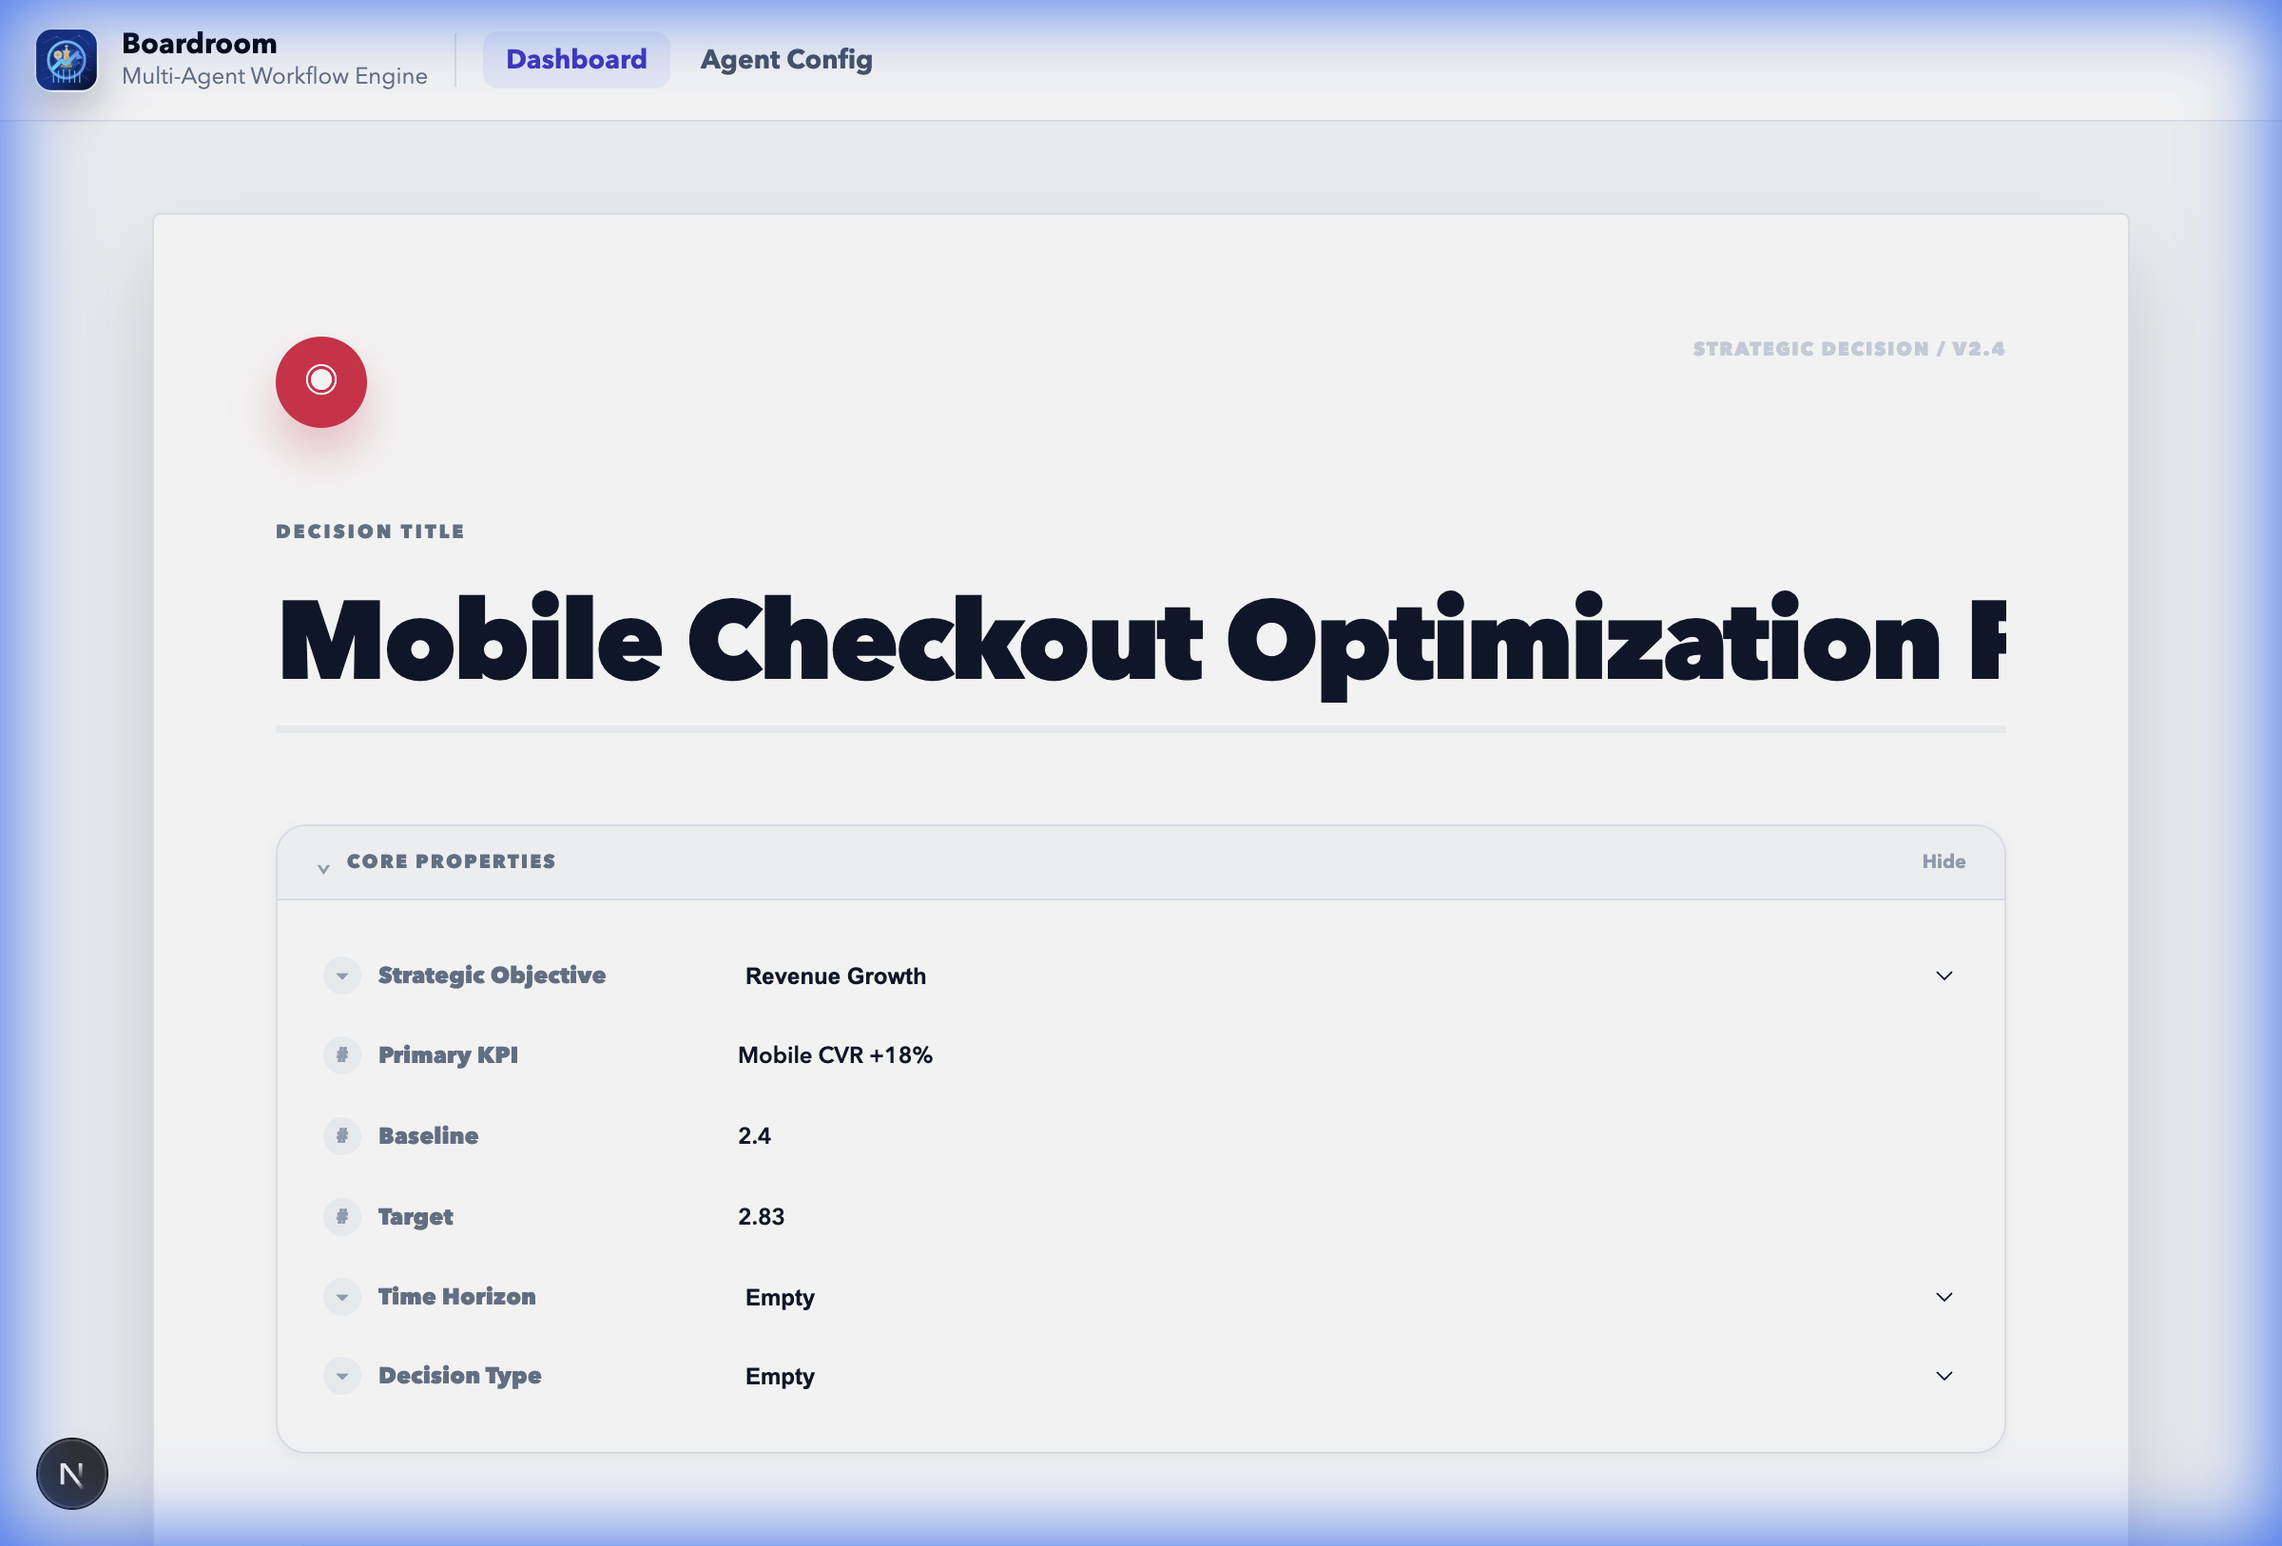
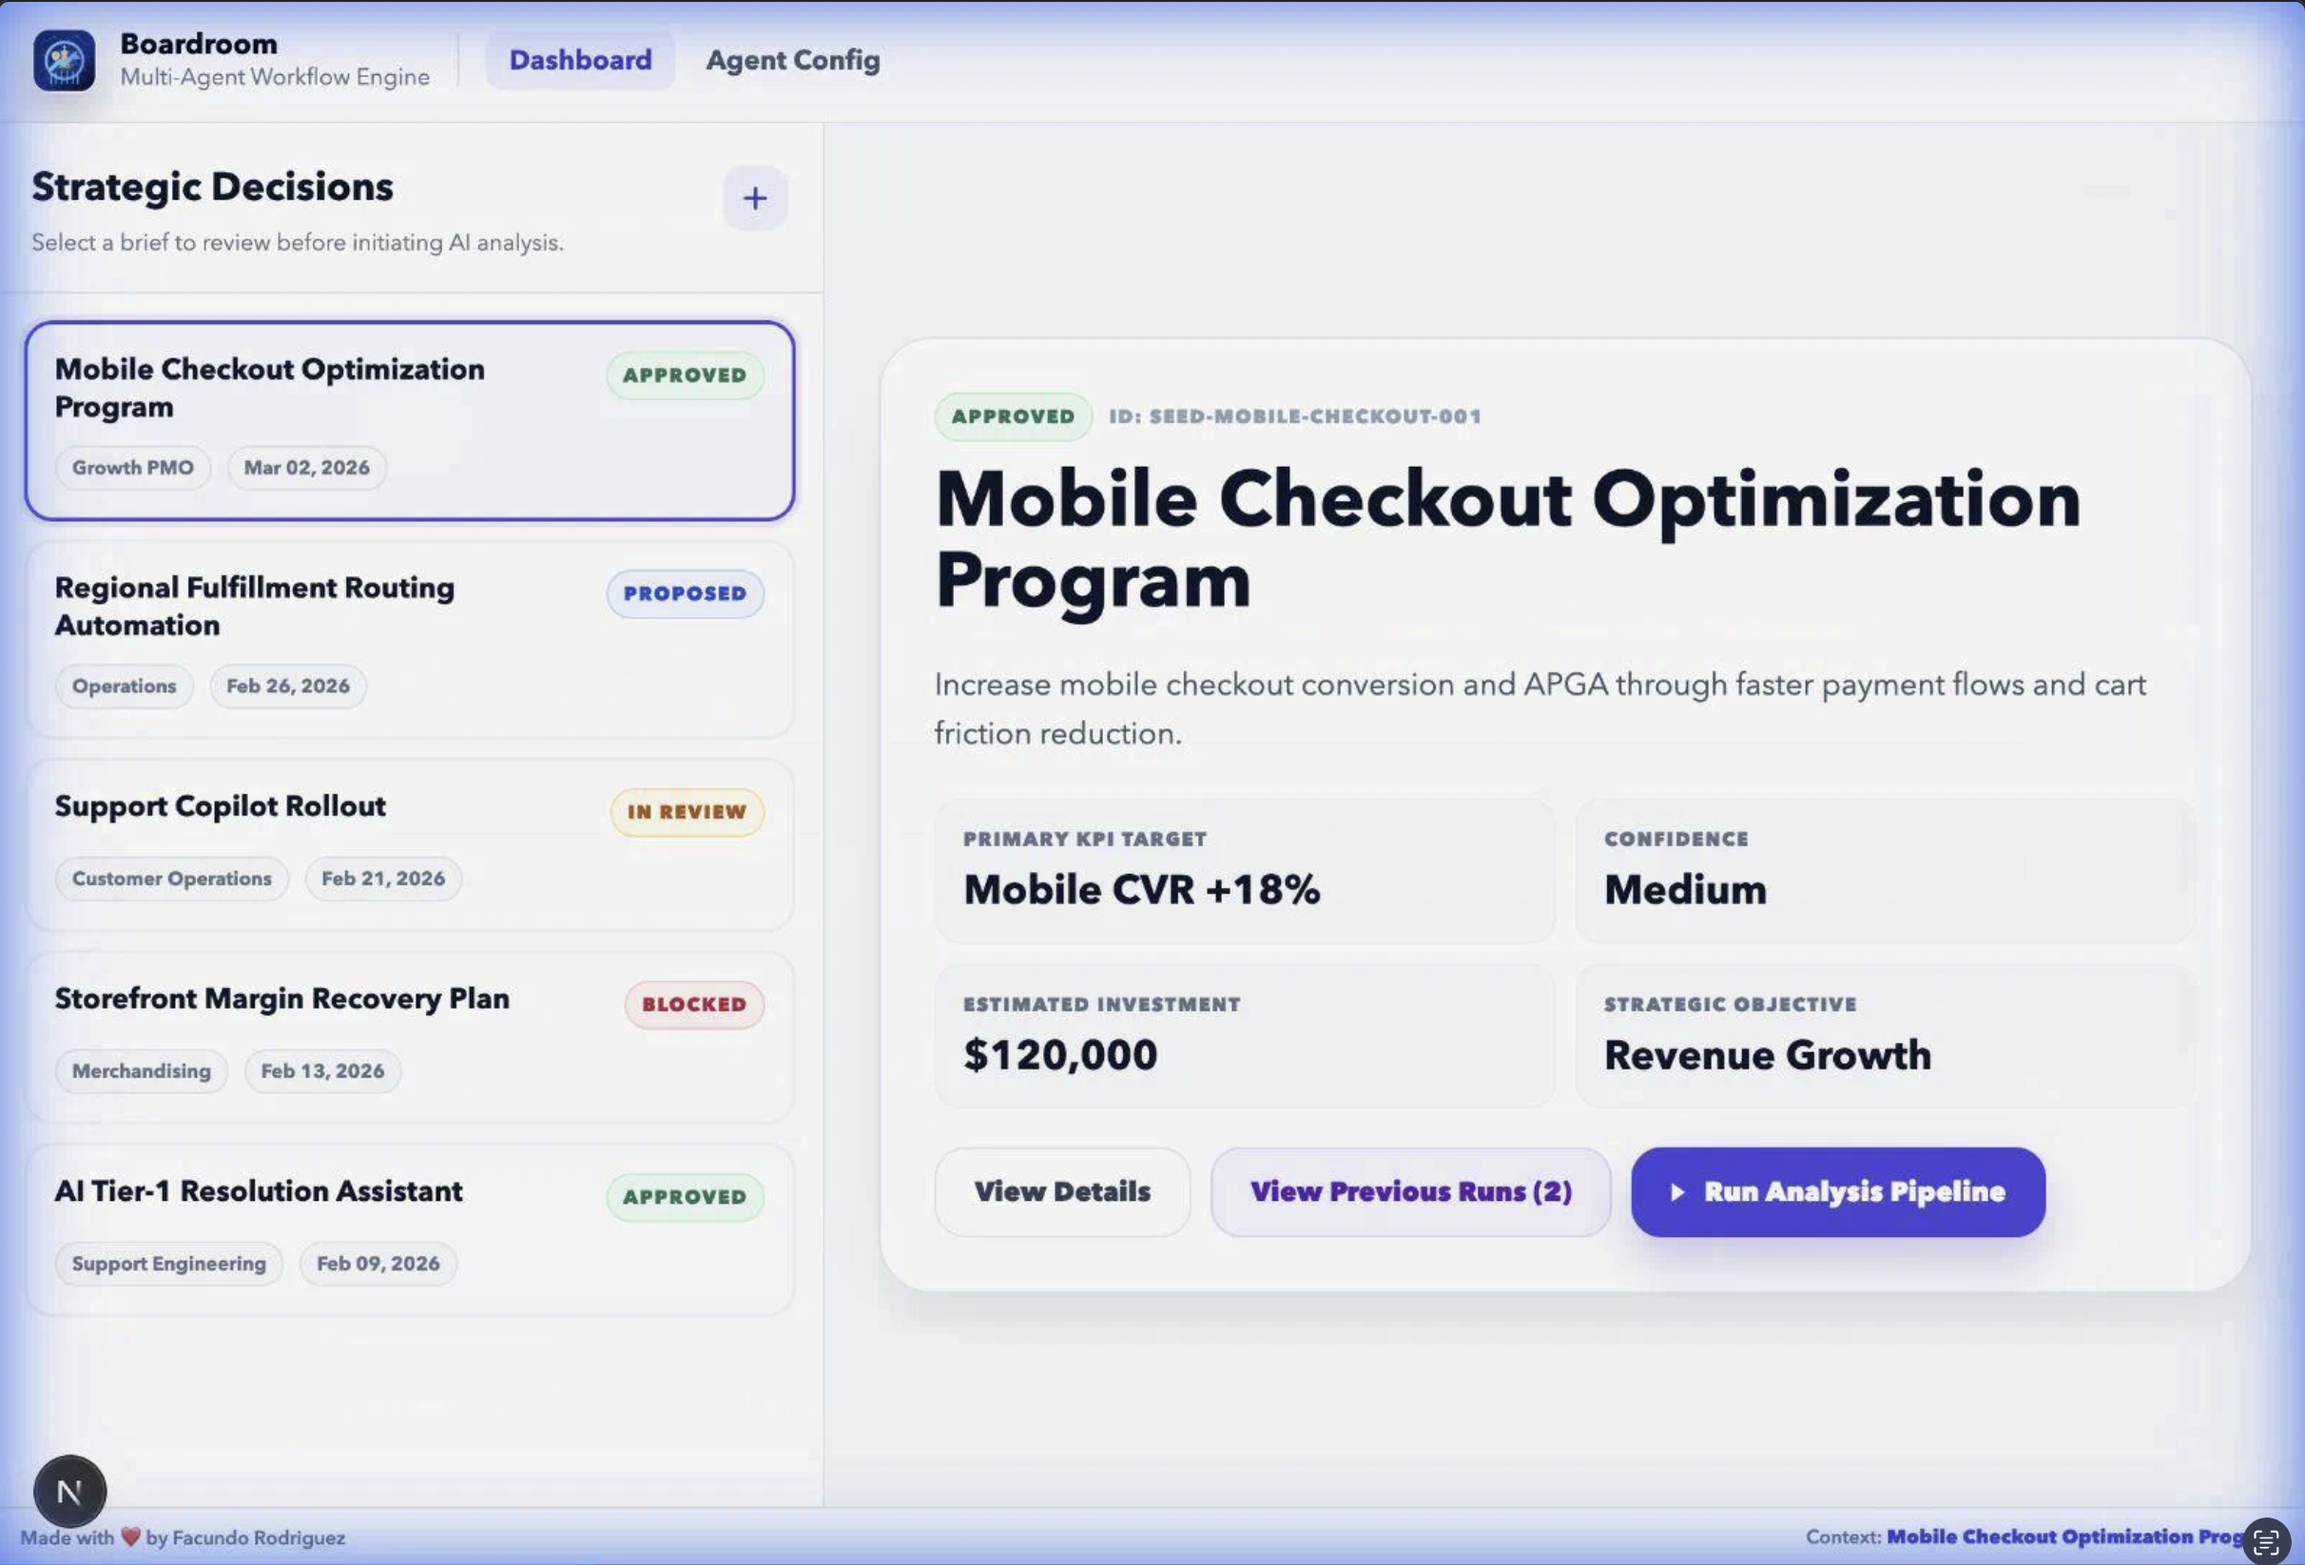
Add description of the Strategic Decision Framework. Update screenshots.

diff --git a/docs/Strategic-Decision-Making-Framework.md b/docs/Strategic-Decision-Making-Framework.md
@@ -1,0 +1,250 @@
+# Strategic Decision-Making Framework
+
+## **Purpose**
+
+Ensure every major product decision:
+
+- Links to business outcomes
+- Is grounded in evidence
+- Makes trade-offs explicit
+- Has defined risk controls
+- Is reversible or irreversible by design
+
+---
+
+# **Overview: 6-Step Decision Model**
+
+1. Strategic Context
+2. Problem Framing
+3. Option Design
+4. Economic & Risk Evaluation
+5. Decision & Alignment
+6. Execution Guardrails
+
+Each step has artifacts + checks.
+
+---
+
+# **1⃣ Strategic Context**
+
+### **Objective**
+
+Ensure the decision supports company-level priorities.
+
+### **Key Questions**
+
+- Which company objective does this support?
+- What metric moves if we succeed?
+- What happens if we do nothing?
+
+### **Required Artifacts**
+
+- 1-page Strategic Alignment Brief
+- KPI linkage table (Objective → Metric → Target)
+- “Cost of Inaction” statement
+
+### **Checks**
+
+- Is this tied to a top-3 company priority?
+- Is the primary metric clearly defined?
+- Is the time horizon explicit (quarter, year, multi-year)?
+
+If not → stop.
+
+---
+
+# **2⃣ Problem Framing**
+
+### **Objective**
+
+Define the real constraint.
+
+### **Key Questions**
+
+- Is this a growth constraint, margin constraint, risk constraint, or operational bottleneck?
+- Is this root cause or symptom?
+- Who is affected (segment, % revenue, % users)?
+
+### **Required Artifacts**
+
+- Problem Statement (1 paragraph)
+- Root Cause Analysis (5 Whys or constraint map)
+- Affected Segment & Revenue Impact Estimate
+
+### **Checks**
+
+- Is the problem quantified?
+- Is it framed as a constraint?
+- Is scope clear?
+
+If it’s vague → it’s not ready.
+
+---
+
+# **3⃣ Option Design**
+
+### **Objective**
+
+Avoid single-solution bias.
+
+### **Minimum: 3 Options**
+
+- Conservative option
+- Balanced option
+- Aggressive option
+
+Each option must define:
+
+- Scope
+- Timeline
+- Resourcing
+- Expected impact range
+- Risks introduced
+
+### **Required Artifacts**
+
+- Option Comparison Matrix
+- High-Level Architecture Implications
+- Operational Complexity Estimate
+
+### **Checks**
+
+- Are trade-offs explicit?
+- Does at least one option optimize for speed?
+- Does at least one option optimize for long-term leverage?
+
+No trade-offs → weak thinking.
+
+---
+
+# **4⃣ Economic & Risk Evaluation**
+
+This is where most PMs fail. This is where you differentiate.
+
+---
+
+## **Economic Evaluation**
+
+For each option:
+
+- Revenue impact (range)
+- Cost impact (engineering + ops)
+- Margin effect
+- Payback period
+- Confidence level
+
+Artifact:
+
+- Simple Financial Impact Model (even directional)
+
+---
+
+## **Risk Evaluation**
+
+Evaluate across 4 dimensions:
+
+1. Regulatory risk
+2. Technical risk
+3. Operational risk
+4. Reputational risk
+
+Artifact:
+
+- Risk Matrix (Impact × Probability)
+- Mitigation plan
+
+---
+
+## **Checks**
+
+- Is downside modeled?
+- Are assumptions documented?
+- Is expected value positive?
+
+If you cannot explain downside → not executive-ready.
+
+---
+
+# **5⃣ Decision & Alignment**
+
+### **Objective**
+
+Make the call and align stakeholders.
+
+### **Decision Types**
+
+Classify explicitly:
+
+- Reversible decision
+- Irreversible decision
+- High-risk / high-impact bet
+- Incremental optimization
+
+---
+
+### **Required Artifacts**
+
+- Decision Memo (max 2 pages)
+- Chosen Option + Why
+- Options Rejected + Why
+- Assumptions List
+- Kill Criteria (when to stop)
+
+---
+
+### **Alignment Checks**
+
+- Does Engineering understand trade-offs?
+- Does Finance agree with impact model?
+- Does Risk/Compliance approve exposure?
+- Is ownership clear?
+
+No decision memo → no clarity.
+
+---
+
+# **6⃣ Execution Guardrails**
+
+A decision without control loops is irresponsible.
+
+---
+
+### **Define Before Execution**
+
+- Success metrics
+- Leading indicators
+- Failure triggers
+- Review cadence
+- Rollback plan (if reversible)
+
+---
+
+### **Required Artifacts**
+
+- KPI dashboard definition
+- Review milestone schedule
+- Risk monitoring checklist
+- Post-mortem template (pre-written)
+
+---
+
+### **Checks**
+
+- Can we detect failure early?
+- Can we reverse if needed?
+- Is ownership assigned?
+
+---
+
+# **Summary: Required Artifacts List**
+
+For major decisions, you should produce:
+
+1. Strategic Alignment Brief
+2. Problem Statement + Root Cause
+3. Option Comparison Matrix
+4. Financial Impact Model
+5. Risk Matrix
+6. Decision Memo
+7. KPI & Monitoring Plan
+8. Kill Criteria Definition

diff --git a/README.md b/README.md
@@ -1,7 +1,29 @@
 # Boardroom
 
 ## Purpose
-Boardroom is a multi-agent strategic decision workflow. It evaluates one decision artifact with executive reviewers, synthesizes trade-offs, computes a Decision Quality Score (DQS), and gates the decision into `Approved`, `Challenged`, or `Blocked`.
+Boardroom operationalizes a structured [Strategic Decision Framework](docs/Strategic-Decision-Making-Framework.md) into a multi-agent decision governance system.
+
+It evaluates a single strategic initiative as an investment decision — not just a feature proposal.
+
+Through executive-style AI reviewers, it:
+	•	Stress-tests assumptions
+	•	Forces explicit trade-offs
+	•	Models downside exposure
+	•	Evaluates capital efficiency
+	•	Surfaces compliance and risk implications
+
+Each decision is scored across two dimensions:
+	•	Hygiene (are the right artifacts and guardrails in place?)
+	•	Substance (does the strategic and economic logic hold?)
+
+Boardroom then synthesizes the analysis and applies governance logic to classify the outcome as:
+	•	Approved — Decision meets strategic, financial, and risk thresholds
+	•	Challenged — Gaps or weak trade-offs require revision
+	•	Blocked — Risk, compliance, or capital exposure is unacceptable
+
+The goal isn’t to automate strategy.
+
+It’s to institutionalize disciplined decision-making — making capital allocation, downside modeling, and governance explicit before execution begins.
 
 ## UI Preview
 

diff --git a/docs/README.md b/docs/README.md
@@ -1,6 +1,7 @@
 # Boardroom Documentation
 
-- Setup and operations: `docs/setup.md`
-- API reference: `docs/api.md`
-- Data model: `docs/data-model.md`
-- Architecture flow: `docs/architecture.md`
+- Strategic Decision Making Framework: [docs/Strategic-Decision-Making-Framework.md](docs/Strategic-Decision-Making-Framework.md)
+- Setup and operations: [docs/setup.md](docs/setup.md)
+- API reference: [docs/api.md](docs/api.md)
+- Data model: [docs/data-model.md](docs/data-model.md)
+- Architecture flow: [docs/architecture.md](docs/architecture.md)
